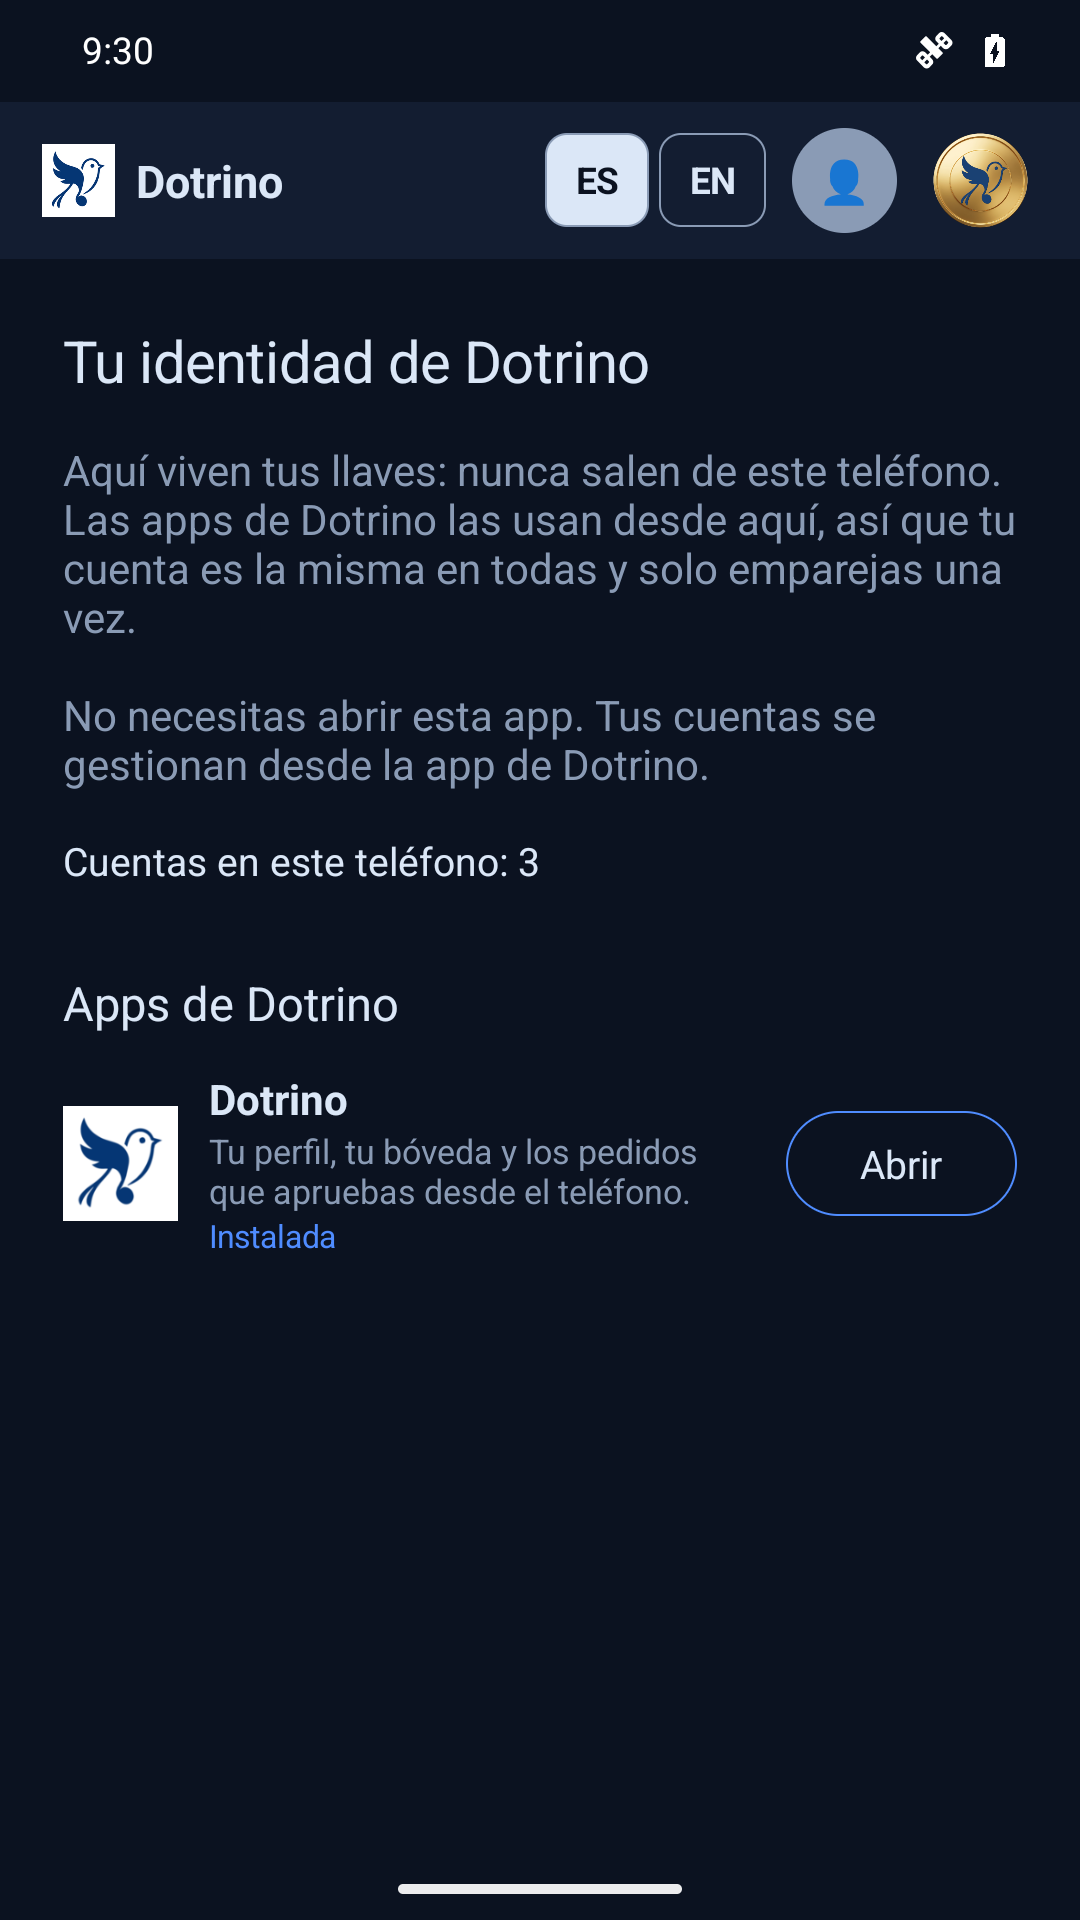
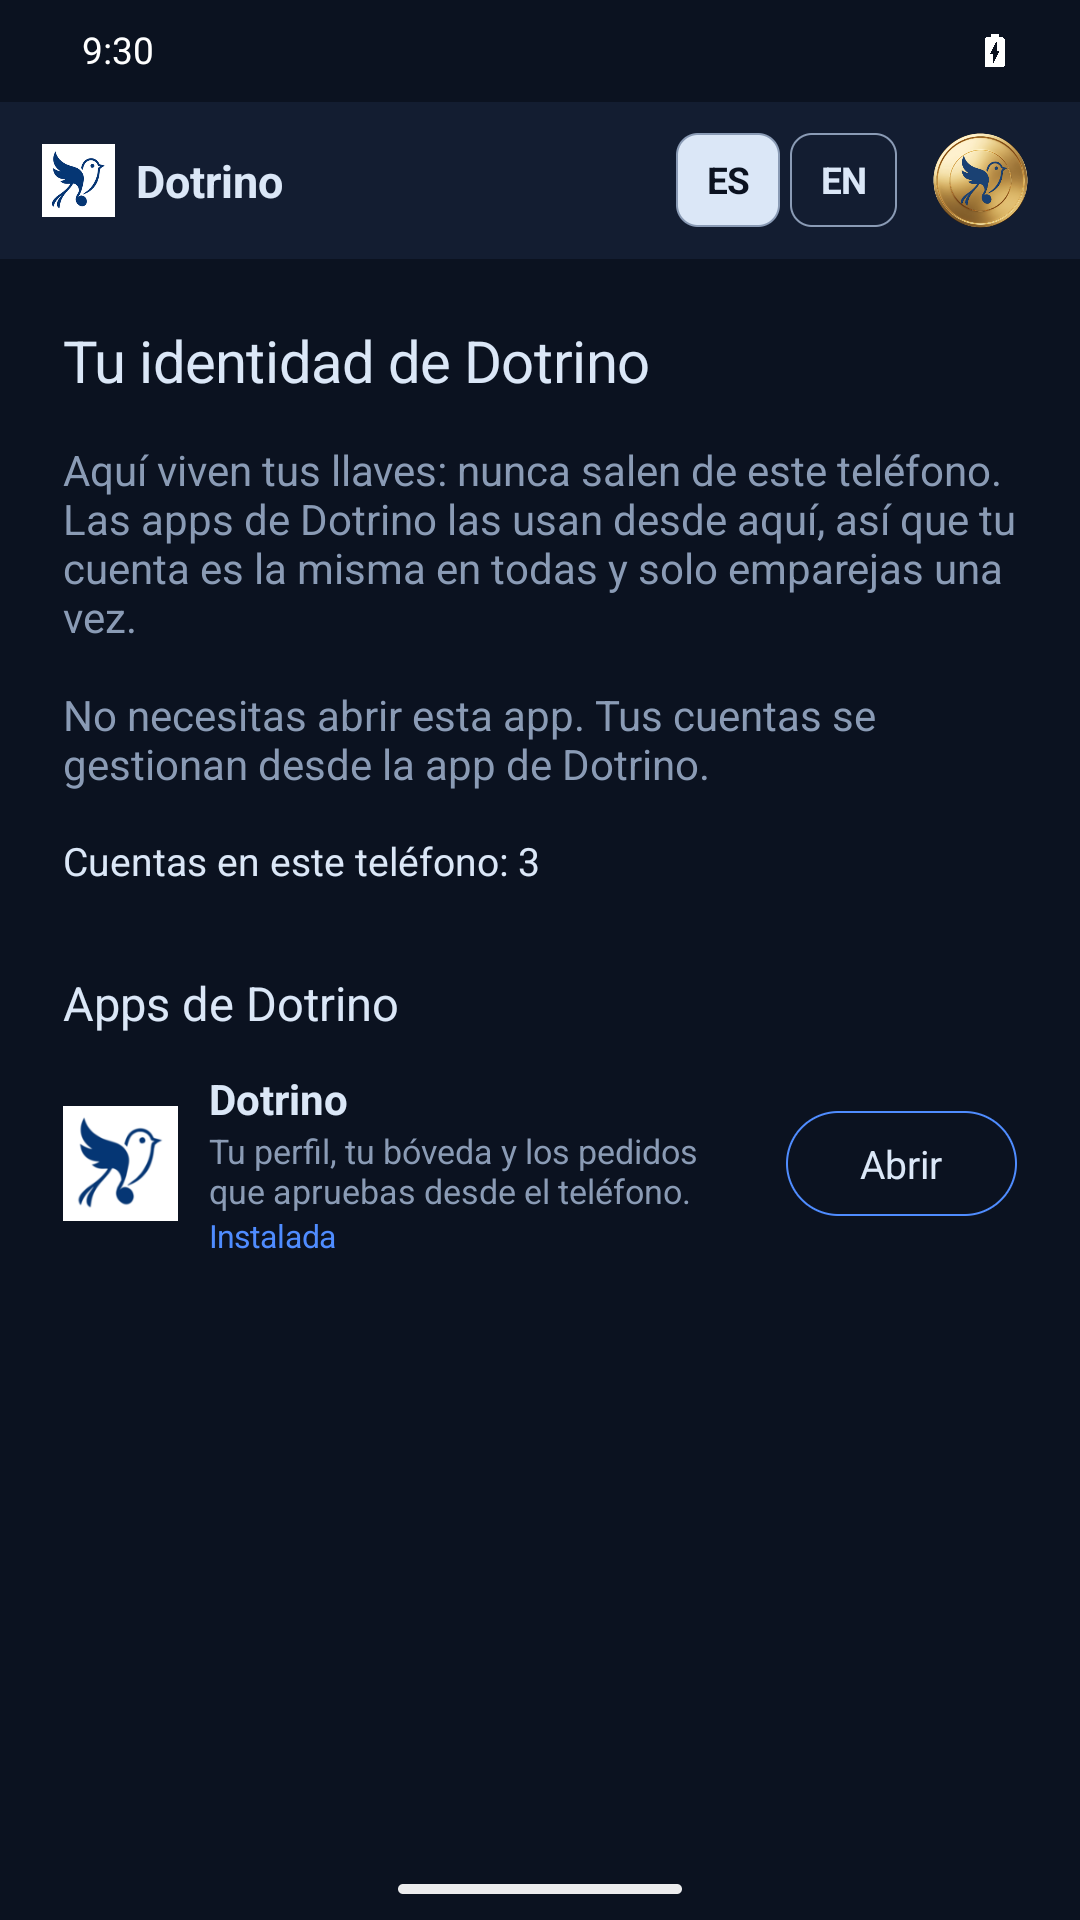
Identidad Dotrino 0.2.7 no tiene permiso de internet ni de cámara: la política y la ficha vuelven a decirlo (native v0.33.3)

Changed region(s): [[0.4889, 0.0625, 0.825, 0.125], [0.8556, 0.0, 0.8861, 0.0312]]

diff --git a/store/identity-listing.md b/store/identity-listing.md
@@ -26,7 +26,7 @@ Guarda tus llaves de Dotrino en el teléfono. Una cuenta para todas tus apps.
 Identidad Dotrino guarda tus llaves de Dotrino en el chip de seguridad del teléfono y se las presta a las apps de Dotrino que tengas instaladas. Así tu cuenta es la misma en todas y solo enlazas el teléfono una vez.
 
 • Tus llaves nunca salen del teléfono.
-• Desde su pantalla puedes abrir las páginas de tu perfil. La cámara solo se usa si tú la abres, para leer un código QR.
+• Esta app no se conecta a internet: ni siquiera tiene permiso para hacerlo.
 • Solo la pueden usar las apps de Dotrino.
 • Sin anuncios y sin llevar cuenta de lo que haces. Código abierto (licencia MIT).
 
@@ -45,7 +45,7 @@ Keeps your Dotrino keys on your phone. One account for all your apps.
 Identidad Dotrino keeps your Dotrino keys in your phone's security chip and lends them to the Dotrino apps you have installed. That way your account is the same in all of them, and you link the phone only once.
 
 • Your keys never leave the phone.
-• From its screen you can open your profile pages. The camera is used only when you open it, to read a QR code.
+• This app does not connect to the internet: it does not even have permission to.
 • Only Dotrino apps can use it.
 • No ads and no record kept of what you do. Open source (MIT license).
 
